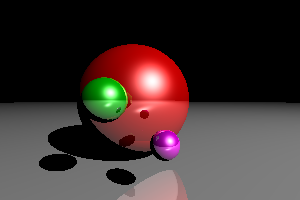
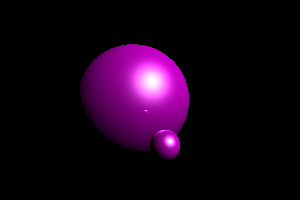
added GUI

diff --git a/Current/ray_trace.py b/Current/ray_trace.py
@@ -1,0 +1,105 @@
+#imports
+import numpy as np
+import matplotlib.pyplot as plt
+import datetime
+from sphere import sphere
+from texture import texture
+from light import light
+from utility import norm
+
+startTime = datetime.datetime.now()
+
+def normalize(vector):
+    return vector / norm(vector)
+
+def reflected(vector, axis):
+    return vector - 2 * np.dot(vector, axis) * axis
+
+def nearest_intersected_object(objects, ray_origin, ray_direction):
+    distances = [obj.intersect(ray_origin, ray_direction) for obj in objects]
+    nearest_object = None
+    min_distance = np.inf
+    for index, distance in enumerate(distances):
+        if distance and distance < min_distance:
+            min_distance = distance
+            nearest_object = objects[index]
+    return nearest_object, min_distance
+
+
+class tracer:
+
+    def __init__(self):
+        
+        self.width = 300
+        self.height = 200
+
+        self.max_depth = 3
+
+        self.camera = np.array([0, 0, 1])
+        self.ratio = float(self.width) / self.height
+        self.screen = (-1, 1 / self.ratio, 1, -1 / self.ratio) # left, top, right, bottom 
+                
+        self.source = light(np.array([5, 5, 5]), texture(np.array([1, 1, 1]), np.array([1, 1, 1]), np.array([1, 1, 1]), 0, 0))
+        
+        
+        self.objects = []
+        self.path = 'Current\image.png'
+
+
+    def render(self):
+        
+        self.image = np.zeros((self.height, self.width, 3))
+        for i, y in enumerate(np.linspace(self.screen[1], self.screen[3], self.height)):
+            for j, x in enumerate(np.linspace(self.screen[0], self.screen[2], self.width)):
+                # screen is on origin
+                origin = self.camera
+                pixel = np.array([x, y, 0])
+                direction = normalize(pixel - origin)
+
+                color = np.zeros((3))
+                reflection = 1
+
+                for _ in range(self.max_depth):
+                    # check for intersections
+                    nearest_object, min_distance = nearest_intersected_object(self.objects, origin, direction)
+                    if nearest_object is None:
+                        break
+
+                    intersection = origin + min_distance * direction
+                    normal_to_surface = normalize(intersection - nearest_object.centre)
+                    shifted_point = intersection + 1e-5 * normal_to_surface
+                    intersection_to_light = normalize(self.source.position - shifted_point)
+
+                    nearest_distance, min_distance = nearest_intersected_object(self.objects, shifted_point, intersection_to_light)
+                    intersection_to_light_distance = norm(self.source.position - intersection)
+                    is_shadowed = min_distance < intersection_to_light_distance
+
+                    if is_shadowed:
+                        break
+
+                    illumination = np.zeros((3))
+
+                    # ambiant
+                    illumination += nearest_object.texture.ambient * self.source.texture.ambient
+
+                    # diffuse
+                    illumination += nearest_object.texture.diffuse * self.source.texture.diffuse * np.dot(intersection_to_light, normal_to_surface)
+
+                    # specular
+                    intersection_to_camera = normalize(origin - intersection)
+                    H = normalize(intersection_to_light + intersection_to_camera)
+                    illumination += nearest_object.texture.specular * self.source.texture.specular * np.dot(normal_to_surface, H) ** (nearest_object.texture.shininess / 4)
+
+                    # reflection
+                    color += reflection * illumination
+                    reflection *= nearest_object.texture.reflection
+
+                    origin = shifted_point
+                    direction = reflected(direction, normal_to_surface)
+
+                self.image[i, j] = np.clip(color, 0, 1)
+            print("%d/%d" % (i + 1, self.height))
+        endTime = datetime.datetime.now()
+        print(endTime - startTime)
+
+        plt.imsave(self.path, self.image)

diff --git a/Current/GUI.py b/Current/GUI.py
@@ -1,0 +1,67 @@
+from tkinter import *
+import tkinter
+from PIL import ImageTk, Image
+import ray_trace
+from sphere import sphere
+import numpy as np
+from texture import texture
+
+
+
+def refresh_image():
+    
+    t.render()
+
+    i = Image.open("Current\image.png")
+    display = ImageTk.PhotoImage(i, master=root)
+    rendered_shapes.configure(image = display)
+    rendered_shapes.image = display
+
+def add_sphere():
+    s = sphere( np.array([float(ex.get()), float(ey.get()), float(ez.get())]), float(era.get()), texture(np.array([0.1, 0, 0.1]), np.array([0.7, 0, 0.7]), np.array([1, 1, 1]), 100, 0.5) )
+    t.objects.append(s)
+    refresh_image()
+            # objects = [
+        #     sphere( np.array([0.1, -0.3, 0]), 0.1, texture(np.array([0.1, 0, 0.1]), np.array([0.7, 0, 0.7]), np.array([1, 1, 1]), 100, 0.5) ),
+        #     sphere( np.array([-0.2, 0, -1]), 0.7, texture(np.array([0.1, 0, 0]), np.array([0.7, 0, 0]), np.array([1, 1, 1]), 100, 0.5 )),
+        #     sphere( np.array([-0.3, 0, 0]), 0.15, texture(np.array([0, 0.1, 0]), np.array([0, 0.6, 0]), np.array([1, 1, 1]), 100, 0.5 )),
+        #     sphere( np.array([0, -9000, 0]), 9000 - 0.7, texture(np.array([0.1, 0.1, 0.1]), np.array([0.6, 0.6, 0.6]), np.array([1, 1, 1]), 100, 0.5 ))
+            
+        #]
+
+
+
+
+t = ray_trace.tracer()
+root = tkinter.Tk()  
+i = Image.open("Current\image.png")
+display = ImageTk.PhotoImage(i, master=root)
+rendered_shapes = tkinter.Label(root, image=display)
+rendered_shapes.grid(row=0)
+
+btn_refresh = tkinter.Button(root, text='Refresh',width= 25, command=refresh_image)
+btn_refresh.grid(row=5, column = 0)
+#refresh.pack( side = BOTTOM)
+
+btn_new_sphere = tkinter.Button(root, text= 'new sphere', width = 25, command=add_sphere)
+
+btn_new_sphere.grid(row=5, column = 1)
+#new_sphere.pack(side = BOTTOM)
+
+Label(root, text = 'x coordinate.').grid(row=1)
+Label(root, text = 'y coordinate.').grid(row=2)
+Label(root, text = 'z coordinate.').grid(row=3)
+Label(root, text = 'THE ERA.').grid(row=4)
+
+ex = Entry(root)
+ey = Entry(root)
+ez = Entry(root)
+era = Entry(root)
+
+ex.grid(row = 1, column = 1)
+ey.grid(row = 2, column = 1)
+ez.grid(row = 3, column = 1)
+era.grid(row = 4, column = 1)
+
+
+root.mainloop()

diff --git a/Current/Testingtk.py b/Current/Testingtk.py
@@ -1,0 +1,15 @@
+from tkinter import *
+
+top = Tk()
+mb = Menubutton ( top, text = 'GfG')
+mb.grid()
+mb.menu = Menu ( mb, tearoff = 0 )
+mb['menu'] = mb.menu
+cVar = IntVar()
+aVar = IntVar()
+mb.menu.add_checkbutton ( label ='Contact', variable = cVar )
+mb.menu.add_checkbutton ( label = 'About', variable = aVar )
+mb.pack()
+top.mainloop()
+
+

diff --git a/Current/sphere.py b/Current/sphere.py
@@ -1,14 +1,7 @@
 import numpy as np
 import numba as nb
 import texture
-
-@nb.njit(fastmath=True)
-def norm(l):
-    s = 0.
-    for i in range(l.shape[0]):
-        s += l[i]**2
-    return np.sqrt(s)
-
+from utility import norm
 class sphere:
     
     def __init__(self, centre, radius, texture):

diff --git a/Current/utility.py b/Current/utility.py
@@ -1,0 +1,10 @@
+import numba as nb
+import numpy as np
+
+
+@nb.njit(fastmath=True)
+def norm(l):
+    s = 0.
+    for i in range(l.shape[0]):
+        s += l[i]**2
+    return np.sqrt(s)
